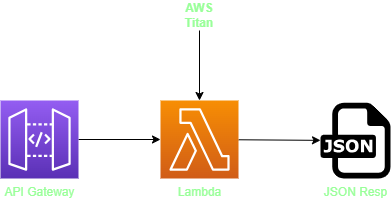
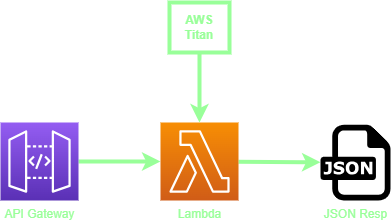
system diagram updated and added to md file

Changed region(s): [[0.399, 0.0, 1.0, 0.99], [0.0, 0.48, 0.2148, 1.0], [0.1841, 0.66, 0.4297, 0.78]]

diff --git a/README.md b/README.md
@@ -2,6 +2,8 @@
 
 This guide walks you through setting up an **AWS Lambda function** that invokes **Amazon Titan** on **AWS Bedrock**, deploys it with **API Gateway**, and allows invoking it from external scripts in **Python, Node.js, and Swift**.
 
+![main](./docs/SYSTEM.png)
+
 ---
 
 ## 📌 **Step 1: Prepare Lambda Function**
